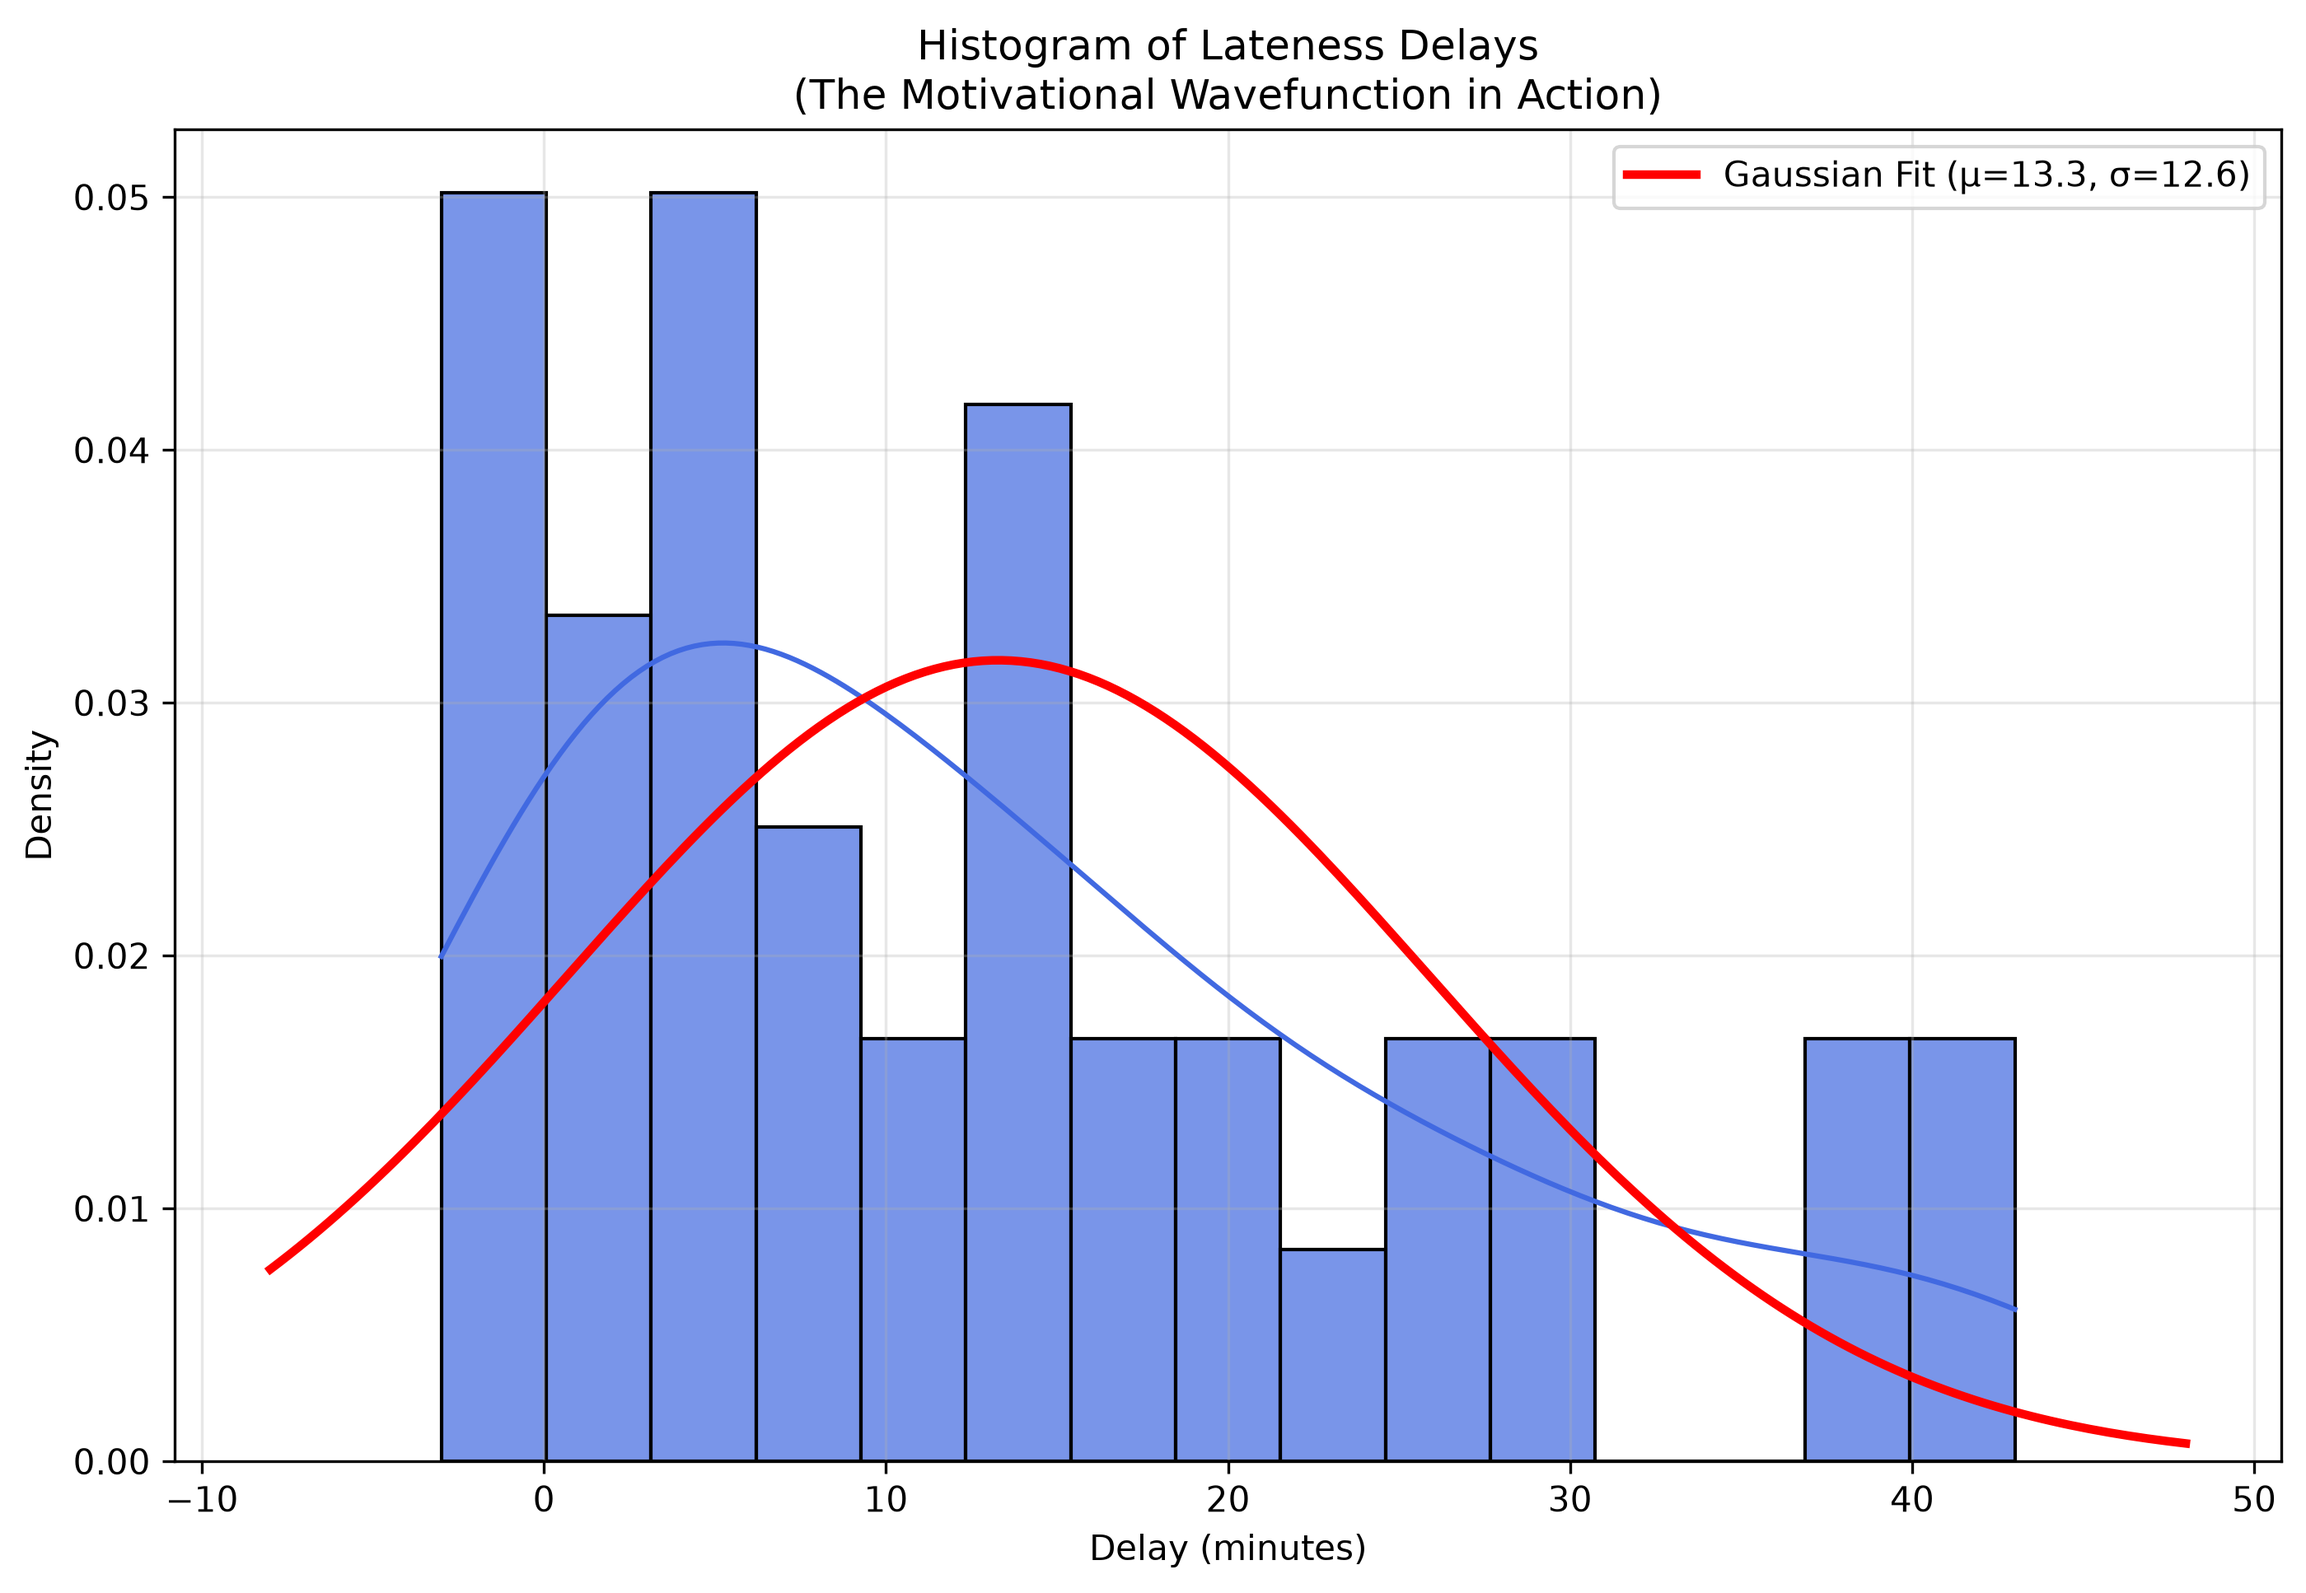
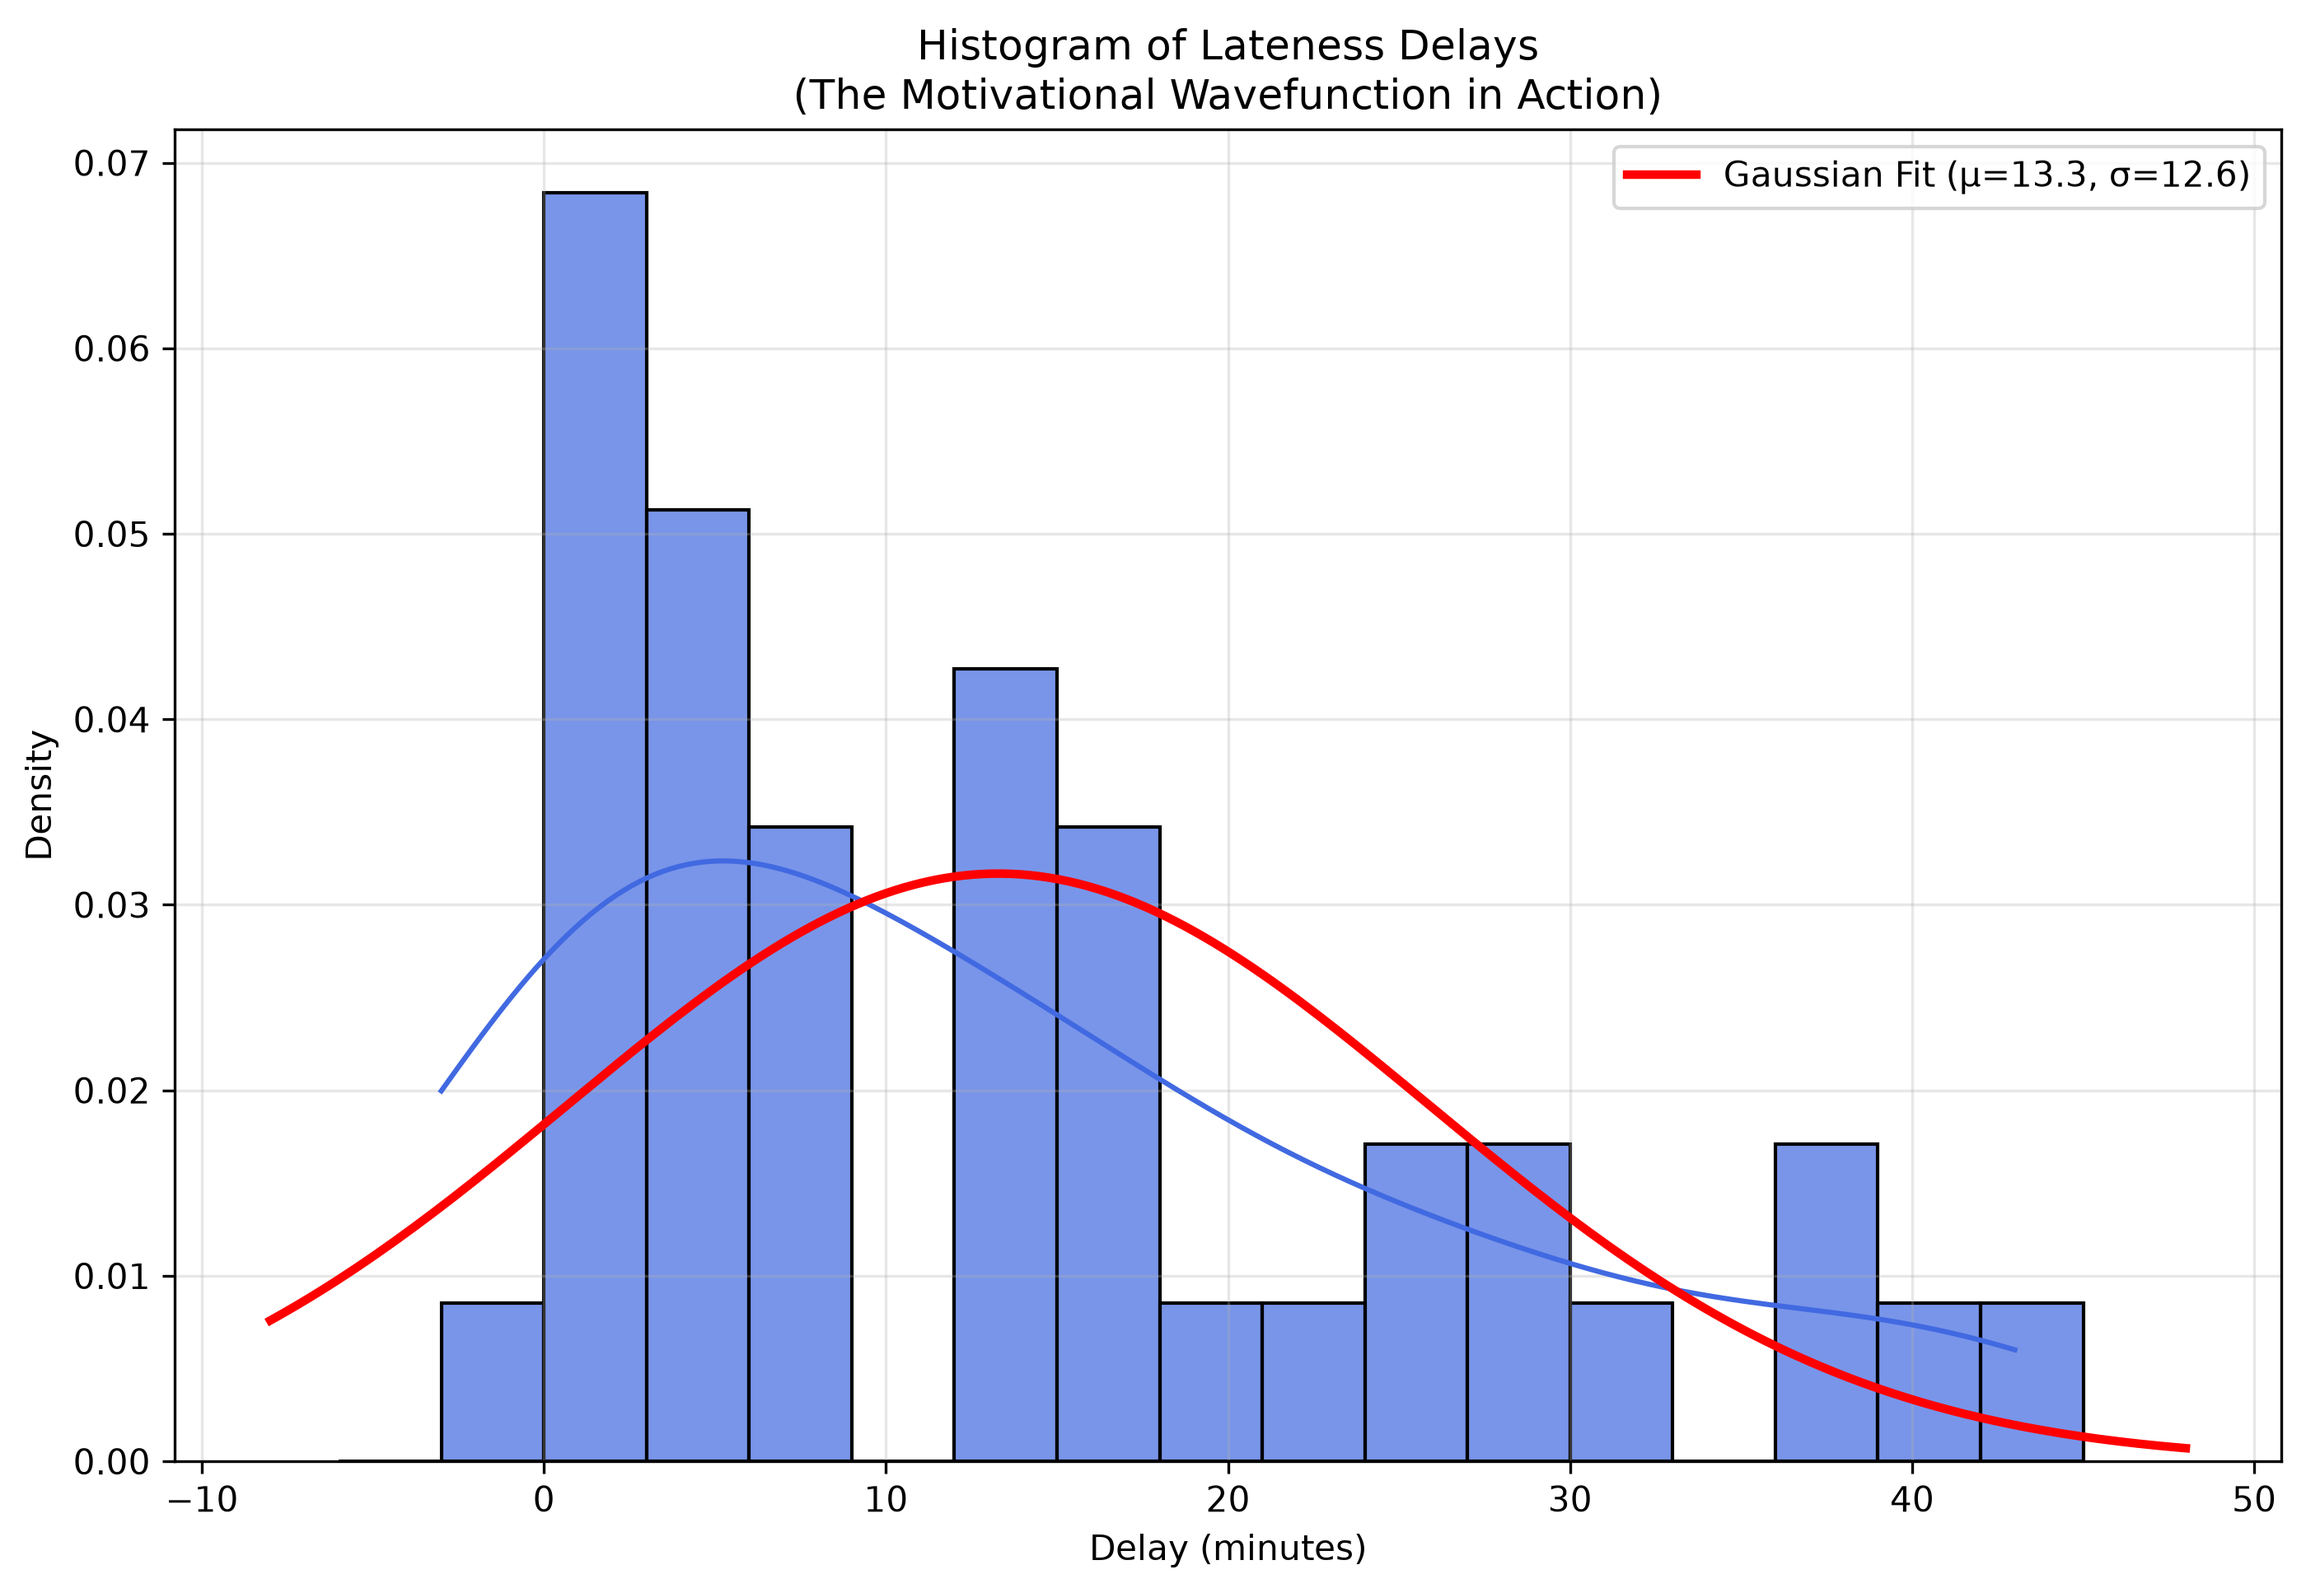
adds defs of vars

diff --git a/report/main.tex b/report/main.tex
@@ -214,9 +214,8 @@ the full catalog is
     P_{\mathrm{absent}} = \frac{22}{61} \simeq 36\%.
 \end{equation}
 Taken together, the probability that the subject both appears
-\emph{and} is not late is $6/61\simeq 10\%$. Extending the
-catalog by five weeks has not improved this rare-event rate;
-if anything, the vacuum has become slightly less accessible.
+\emph{and} is not late is $6/61\simeq 10\%$. This is the closest
+the dataset comes to a rare-event process.
 
 \begin{table}[H]
 \centering
@@ -248,7 +247,7 @@ $P(\text{present and not late})$ & $10\%$ \\
 
 A maximum-likelihood Gaussian fit to the attended sample yields
 $(\mu,\sigma)\simeq(13.3,12.6)$~min
-(Figs.~\ref{fig:histogram} and~\ref{fig:gauss}).
+(Figs.~\ref{fig:histogram}).
 
 The Gaussian description fails in two structurally important
 ways. First, it assigns appreciable probability to early arrivals
@@ -273,18 +272,6 @@ left of $\mu$.
     \label{fig:histogram}
 \end{figure}
 
-\begin{figure}[H]
-    \centering
-    \includegraphics[width=\linewidth]{../plots/gaussian_fit.png}
-    \caption{
-        Density-normalized histogram and Gaussian fit
-        (\textit{quantum lateness model}).
-        The data prefer a sharper onset near $\Delta t=0$
-        than a symmetric Gaussian can provide.
-    }
-    \label{fig:gauss}
-\end{figure}
-
 \subsection{Exponential tail}
 
 Restricting to strictly positive delays ($n=33$), an exponential
@@ -296,8 +283,7 @@ model
 \end{equation}
 gives a fitted scale $\tau\simeq 14.8$~min
 (Fig.~\ref{fig:tail}), comparable to the mean of the positive
-subsample ($15.8$~min). Remarkably, this scale is stable under
-the addition of the June--July data. In this description,
+subsample ($15.8$~min). In this description,
 lateness is memoryless: conditional on not having arrived by
 time $t_0+t$, the expected additional wait is still of order a
 quarter of an hour. This is the statistical signature of a
@@ -416,12 +402,15 @@ A minimal effective description is therefore
     \Delta t_0
     + g_{\mathrm{FA}}\,\mathcal{O}_{\mathrm{FA}}
     + g_{12}\,\mathcal{O}_{12:15}
-    + \cdots,
+    + \cdots
 \end{equation}
-where $\mathcal{O}_{\mathrm{FA}}$ is an indicator for
-functional analysis and the two operators are, in the
-present design, almost collinear. A larger dataset would
-still be required to disentangle subject from clock time.
+Here $\Delta t_0$ is a baseline mean delay;
+$\mathcal{O}_{\mathrm{FA}},\mathcal{O}_{12:15}\in\{0,1\}$ 
+are indicators for functional analysis and the
+noon slot; and $g_{\mathrm{FA}}$, $g_{12}$ are the
+associated couplings in minutes.
+The two operators are almost collinear in this timetable,
+so subject and clock time cannot yet be separated.
 
 \subsection{Survival analysis}
 
@@ -468,8 +457,7 @@ However, the observed data exhibit a counterintuitive trend:
 rainy conditions are weakly associated with improved punctuality.
 
 The Pearson correlation between temperature and delay remains
-consistent with zero ($r\simeq -0.02$), even after the sample
-has been extended into a hotter July. Sunny attendances
+consistent with zero ($r\simeq -0.02$). Sunny attendances
 average $15.0$~min and include the barbecue;
 cloudy attendances average $12.5$~min. The only
 properly rainy attendance is still the unique early arrival
@@ -502,8 +490,7 @@ November.
     \includegraphics[width=\linewidth]{../plots/weather_scatter.png}
     \caption{
         Delay versus ambient temperature, colored by weather.
-        No linear thermal trend is visible, including in the
-        newly added high-temperature July points.
+        No linear thermal trend is visible.
         The isolated red point is the early-arrival rain
         event; the isolated green point is the
         $38$~min drizzle lecture.
@@ -515,48 +502,69 @@ November.
 \end{figure}
 
 % -------------------------------------------------
-\section{A phenomenological model}
+\section{A Phenomenological Model}
 % -------------------------------------------------
 
 The data motivate a minimal two-phase description.
 Let $p_0$ be the probability of remaining in the punctuality
-vacuum and $1-p_0$ the probability of tunneling into the
-late continuum. Then
+vacuum (the empirical rate $P(\Delta t\le 0)\simeq 0.15$)
+and $1-p_0$ the probability of tunneling into the late
+continuum. Write
 \begin{equation}
     \Delta t
     =
     \begin{cases}
       \varepsilon, & \text{with probability } p_0, \\[2pt]
-      \Delta t_{\min} + \tau\,\xi, & \text{otherwise},
+      \Delta t_{\min} + \tau\,\xi, & \text{otherwise}.
     \end{cases}
 \end{equation}
-where $\varepsilon$ is a narrow random variable supported
-near zero and $\xi\sim\mathrm{Exp}(1)$. Empirically
-$p_0\simeq 0.15$ and $\tau\simeq 15$~min.
-The vacuum probability has decreased relative to the first
-nine weeks; the tail scale has not.
+Here $\varepsilon$ is a narrow random variable supported
+near zero (in the sample, $\varepsilon\in\{-3,0\}$);
+$\Delta t_{\min}>0$ is a small offset for the onset of
+the late phase;
+$\tau\simeq 15$~min is the exponential scale fitted to
+positive delays;
+and $\xi\sim\mathrm{Exp}(1)$ is a unit exponential random
+variable, i.e.\ it has density $e^{-x}$ for $x>0$ and
+mean $1$. The product $\tau\xi$ is therefore an
+exponential delay with mean $\tau$.
 
 An equivalent field-theoretic cartoon is an asymmetric
 effective potential $V(\Delta t)$ with a shallow well at
 $\Delta t=0$ and a linear downhill slope for $\Delta t>0$.
 Once the well is left, there is no classical restoring
 force; arrival becomes a first-passage problem with
-constant hazard $1/\tau$. Reminders may be added
-perturbatively as
+constant hazard $1/\tau$.
+
+Reminders, if they were applied, could be added
+perturbatively. Let $R$ denote a reminder strength
+(for example a dimensionless count of messages, or an
+intensity in inverse minutes) and let $\alpha$ be the
+associated linear coupling, with expected sign
+$\alpha<0$. Then
 \begin{equation}
     \Delta t
     =
     \Delta t_0 + \alpha R + \mathcal{O}(R^2),
 \end{equation}
-with $\alpha<0$ the expected sign, but no controlled
-reminder protocol was implemented in this run.
+where $\Delta t_0$ is the delay in the absence of
+reminders. No controlled reminder protocol was implemented
+in this run, so $\alpha$ is not measured.
 
-The event-type dependence is encoded by letting $\tau$ and
-$p_0$ run with the appointment:
+The event-type dependence is encoded by letting the tail
+scale run with the appointment,
 \begin{equation}
-    \tau = \tau_0 + c_{\mathrm{FA}}\,\mathcal{O}_{\mathrm{FA}}
-          + c_{\mathrm{BBQ}}\,\mathcal{O}_{\mathrm{BBQ}}.
+    \tau
+    =
+    \tau_0
+    + c_{\mathrm{FA}}\,\mathcal{O}_{\mathrm{FA}}
+    + c_{\mathrm{BBQ}}\,\mathcal{O}_{\mathrm{BBQ}}.
 \end{equation}
+Here $\tau_0$ is a baseline scale,
+$\mathcal{O}_{\mathrm{FA}},\mathcal{O}_{\mathrm{BBQ}}\in\{0,1\}$
+are indicator functions for functional-analysis lectures
+and barbecues, and $c_{\mathrm{FA}}$, $c_{\mathrm{BBQ}}$
+are the corresponding shifts in $\tau$, in minutes.
 Fits of this form are underconstrained, yet the hierarchy
 $\tau_{\mathrm{FA}} > \tau_{\mathrm{lecture}}
 > \tau_{\mathrm{meeting}} \sim \tau_{\mathrm{exercise}}$
@@ -567,14 +575,11 @@ Friday Mathematica exercises are closer to the trivial
 (on-time) theory.
 
 A crude Bayesian forecast for a new event of type $s$ is
-then just the posterior predictive implied by the
-corresponding subsample. For a noon functional-analysis
-lecture one should budget $\langle\Delta t\rangle\simeq 28$~min
+the posterior predictive implied by the corresponding
+subsample. For a noon functional-analysis lecture one
+should budget $\langle\Delta t\rangle\simeq 28$~min
 and keep a heavy tail in mind. For a Friday exercise the
-prior is kinder. For the subject's birthday gathering we
-decline to publish a live prediction, on the grounds that
-the barbecue sector has $n=1$ and that functional analysis
-has since produced a larger residual.
+prior is kinder.
 
 % -------------------------------------------------
 \section{Discussion}
@@ -606,8 +611,7 @@ sample or a genuine rain-resonance.
 Two negative results are worth stating clearly.
 Temperature does not correlate with delay, so a simple
 thermal-activation picture of getting out of bed is not
-supported at the level of ambient Celsius, even after
-July.
+supported at the level of ambient Celsius.
 And social context does not automatically restore order:
 the barbecue is no longer the largest residual, but it
 is still not an ordered phase.
@@ -649,7 +653,6 @@ The data reject a symmetric Gaussian model of punctuality.
 The attended delay distribution is positively skewed, has
 mean $13.3$~min and median $12$~min, and is consistent
 with an exponential tail of scale $\tau\simeq 15$~min.
-That tail scale is unchanged by the June--July extension.
 Strict punctuality occurs in $15\%$ of attendances.
 An additional $36\%$ of scheduled events are no-shows,
 so the joint probability of presence and non-lateness is
@@ -671,16 +674,8 @@ reminder coupling, and an independent autumn-rain run
 will be required to decide whether a stable punctuality
 phase can ever be reached under laboratory conditions.
 
-Until then, the recommended practical protocol is
-straightforward. For a noon functional-analysis lecture,
-arrive prepared to wait half an hour, and bring a book
-in case the chair is empty. For a Friday exercise, hope
-is not yet a theoretical error. For a barbecue, light the
-grill and do not wait --- unless functional analysis is
-also on the menu.
-
 % -------------------------------------------------
-\section*{Outlook}
+\section{Outlook}
 % -------------------------------------------------
 
 The present work has been largely phenomenological: a catalogue of

diff --git a/analysis/analyze_lateness.py b/analysis/analyze_lateness.py
@@ -41,7 +41,15 @@ print("\n=== B. Probability Distribution ===")
 
 # 1. Combined Histogram + Gaussian + KDE (best version)
 plt.figure(figsize=(11, 7))
-sns.histplot(attended['delay_min'], kde=True, bins=15, color='royalblue', alpha=0.7, stat="density")
+sns.histplot(
+    attended['delay_min'],
+    bins=np.arange(-6, 48, 3),
+    kde=True,
+    color='royalblue',
+    alpha=0.7,
+    stat='density',
+)
+# sns.histplot(attended['delay_min'], kde=True, bins=15, color='royalblue', alpha=0.7, stat="density")
 x = np.linspace(attended['delay_min'].min()-5, attended['delay_min'].max()+5, 200)
 mu, std = norm.fit(attended['delay_min'])
 plt.plot(x, norm.pdf(x, mu, std), 'r-', lw=2.5, label=f'Gaussian Fit (μ={mu:.1f}, σ={std:.1f})')
